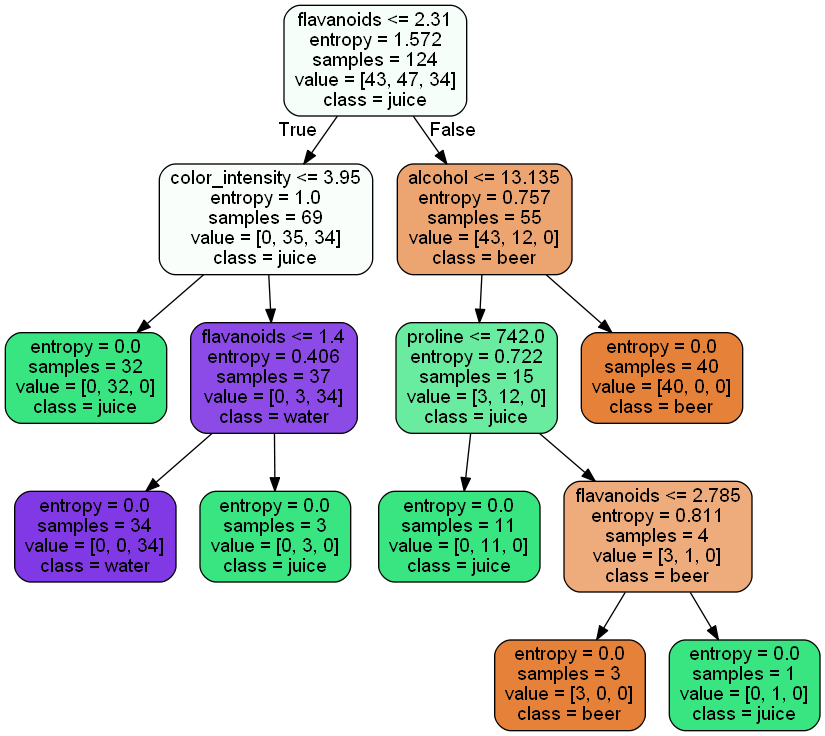
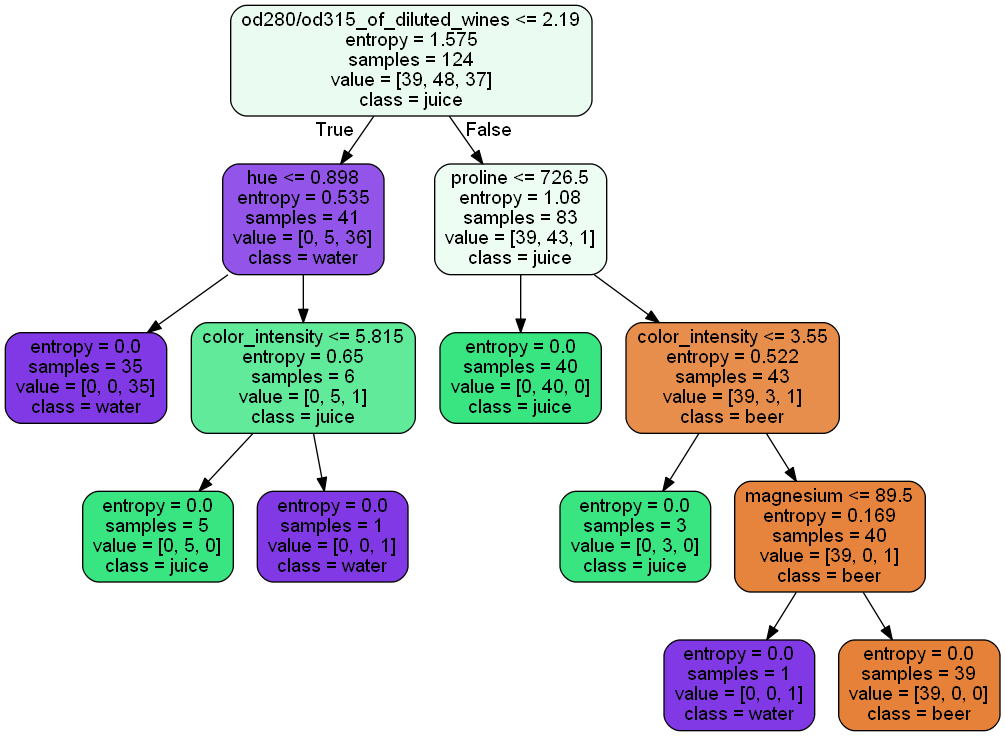
写bug第一名

diff --git a/code/titanic.py b/code/titanic.py
@@ -1,0 +1,153 @@
+# 用分类树预测泰坦尼克号的幸存者
+
+import pandas as pd
+from sklearn.tree import DecisionTreeClassifier
+import matplotlib.pyplot as plt
+from sklearn.model_selection import GridSearchCV, cross_val_score
+from sklearn.model_selection import train_test_split
+import numpy as np
+
+
+# 导入数据集 r是为了防止路径出错
+data = pd.read_csv(r"E:\work\pycharm\goForIt\sklearn\titanic\train.csv")
+
+# print(data.info())
+# 看一眼info RangeIndex: 891 entries, 0 to 890
+# Data columns (total 12 columns):
+# PassengerId    891 non-null int64
+# Survived       891 non-null int64
+# Pclass         891 non-null int64
+# Name           891 non-null object
+# Sex            891 non-null object
+# Age            714 non-null float64
+# SibSp          891 non-null int64
+# Parch          891 non-null int64
+# Ticket         891 non-null object
+# Fare           891 non-null float64
+# Cabin          204 non-null object
+# Embarked       889 non-null object
+
+
+
+# 不难发现特征里面有object 5 个 而分类树模型只能给数字 不能给对象 so如果需要保留的话必须手动转成数字
+# 年龄 Age 714  Cabin 204 Embarked 889 都是不足891的 有缺失值需要处理
+
+
+# 筛选特征
+# data.drop(['Cabin', 'Name''Ticket'], inplace=True,axis=1)
+# inplace=True 参数是让drop后处理的数据覆盖掉原有的数据 如果能确定这样处理不修改的话 可以加这个参数
+# 不加这参数的话 需要再找个变量接收处理后的返回值
+# axis=1 删除列(因为是以最外面大括号的维度)
+data = data.drop(['Cabin', 'Name','Ticket'], axis=1)
+
+# Age数据是714,有缺失值 但感觉这个特征点有用 所以要处理一下
+# 由于是年龄 所以这里用平均数填充 视情况也有可能会用0,中位数 or 别的统计学知识去填补
+data["Age"] = data["Age"].fillna(data["Age"].mean())
+
+
+# print(data.info())    #打出来看一眼
+# Data columns (total 9 columns):
+# PassengerId    891 non-null int64
+# Survived       891 non-null int64
+# Pclass         891 non-null int64
+# Sex            891 non-null object
+# Age            891 non-null float64
+# SibSp          891 non-null int64
+# Parch          891 non-null int64
+# Fare           891 non-null float64
+# Embarked       889 non-null object
+
+
+# Embarked  889 还是有缺失 但是只缺2行 ,所以大部分还是可用的,因此只删除缺这个特征的两行即可
+# 删掉所有有NaN的行(默认axis=0)  传入=1的话可以删除列
+data = data.dropna()
+
+
+# print(data.info())
+# 整体数据变成889行了
+
+labels = data["Embarked"].unique().tolist()
+data["Embarked"] = data["Embarked"].apply(lambda x: labels.index(x))
+labels.index("S")
+
+
+# loc['a':'b']#选取ab两行数据 loc[:,'one']#选取one列的数据 iloc函数基于索引位
+data.loc[:, "Sex"] = (data["Sex"] == "male").astype("int")
+# print(data.iloc[:, 3])
+
+x = data.iloc[:,data.columns != "Survived"]
+# data.columns != "Survived"  会生成一个布尔值的列表 所以是返回为true的列全都取出来
+
+# y则相反 所有等于y的都取出
+y = data.iloc[:,data.columns == "Survived"]
+
+# 划分训练集
+
+Xtrain, Xtest, Ytrain, Ytest = train_test_split(x, y, test_size=0.3)
+
+# print(Xtrain.head(10))
+# 打出来看一眼 由于是随机的索引乱掉了 所以手动整理一下 Xtrain.index = range(Xtrain.shape[0])
+for i in [Xtrain, Xtest, Ytrain, Ytest]:
+    i.index = range(i.shape[0])
+
+
+# random_state 随机写个25
+# 分类模型
+# clf = DecisionTreeClassifier(random_state=25)
+# clf = clf.fit(Xtrain, Ytrain)
+# score = clf.score(Xtest,Ytest)
+
+# print(score)
+# 0.7490636704119851  一次的训练结果不理想
+
+# 追加进行交叉验证的训练
+# clf = DecisionTreeClassifier(random_state=25)
+# score = cross_val_score(clf, x, y, cv=10).mean()
+
+# print(score)
+# 0.7469611848825333  10次均值也不理想 不升反降
+tr = []
+te = []
+
+for i in range(10):
+    clf = DecisionTreeClassifier(random_state=25
+                                 ,max_depth=i+1
+                                 # 第一次调参追加 "entropy" 发现测试集表现更好了
+                                 ,criterion="entropy")
+    clf = clf.fit(Xtrain, Ytrain)
+    score_tr = clf.score(Xtrain,Ytrain)
+    score_te = cross_val_score(clf, x, y, cv=10).mean()
+    tr.append(score_tr)
+    te.append(score_te)
+
+
+# plt.plot(range(1,11),tr,color="red",label="train")
+# plt.plot(range(1,11),te,color="blue",label="test")
+# plt.xticks(range(1,11))
+# plt.legend()
+# plt.show()
+
+
+# 网格搜索:我们给出多个参数 网格搜搜进行枚举给出效果最好的组合
+# 使用时要控制取值范围
+
+clf = DecisionTreeClassifier(random_state=25)
+
+# np.linspace(0,0.5,50) # 0 - 0.5 递增50个随机有序的数
+gini_threholds = np.linspace(0,0.5,50)
+# entropy_threholds = np.linspace(0,1,50)
+
+# 参数是字典型 深度这样的有范围的数据组的话值是列表
+parameters = {
+    "criterion": ("gini", "entropy")
+    , "splitter": ("best", "random")
+    , "max_depth": [*range(1, 10)]
+    , "min_samples_leaf": [*range(1, 50, 5)]
+    # 信息增益最小值
+    , "min_impurity_decrease": gini_threholds
+}
+# 网格搜索 1.要验证测模型 2.参数(字典) 3.次数
+GS = GridSearchCV(clf, parameters, cv=10)
+GS.fit(Xtrain, Ytrain)
+print(GS.best_params_)
+# {'criterion': 'entropy', 'max_depth': 6, 'min_impurity_decrease': 0.01020408163265306, 'min_samples_leaf': 1, 'splitter': 'best'}

diff --git a/code/Decision_tree_example.py b/code/Decision_tree_example.py
@@ -1,0 +1,70 @@
+#  一维回归树案例
+import numpy as np
+from sklearn.tree import DecisionTreeRegressor
+import matplotlib.pyplot as plt
+
+# 创建一组有噪声的曲线 x随机取值0-5 用正弦函数sin去生成y值
+# 但是人为加入一些y的噪声
+
+# 生成随机数种子
+rng = np.random.RandomState(1)
+# np.random.rand 生成随机数据的函数
+# 这里因为已经直接声明rng了 所以可以直接写rand 生成0-1之间的随机数
+# rng.rand(5) 输入5的话会返回5个随机数
+# print(rng.rand(10,7))  输入数字结构的话 会返回10,7 形状的随机数数组
+
+# 这里的rand(80, 1) 生成了数组是因为 tree接口是不允许导入一维特征的
+# 不在生成数据的时候整形的话 之后还要再调用reshape升维 so还不如现在一步到位
+# 乘5 是因为设计时候希望是0-5来着 扩大一下 再sort正序一下
+x = np.sort(5 * rng.rand(80, 1), axis=0)
+
+# 由于导入的X是二维的 所以Y也会是二维
+# 但y如果是二维的话会报错 于是只能用ravel 手动降维
+y = np.sin(x).ravel()
+# 手动加点噪声
+y[::5] += 3 * (0.5 - rng.rand(16))
+
+# 画图瞄一眼
+plt.figure()
+# 这个是画散点图的工具
+plt.scatter(x, y, s=20, edgecolors="black", c="darkorange", label="data")
+plt.show()
+
+# 实例化 and训练 建两个深度对比效果
+regr_1 = DecisionTreeRegressor(max_depth=2)
+regr_2 = DecisionTreeRegressor(max_depth=5)
+regr_1.fit(x,y)
+regr_2.fit(x,y)
+
+# 生成测试集验证
+# arange(开始点,结束点,步长) 生成有序数列 后面加切片是为了增维
+x_test = np.arange(0.0, 5.0, 0.01)[:, np.newaxis]
+
+# 分别导入验证
+y_1 = regr_1.predict(x_test)
+y_2 = regr_2.predict(x_test)
+
+
+# 画图瞄一眼
+plt.figure()
+# 这个是画散点图的工具
+plt.scatter(x, y, s=50, edgecolors="black", c="darkorange", label="data")
+plt.plot(x_test, y_1, color="blue", label="max_depth=2", linewidth=2)
+plt.plot(x_test, y_2, color="yellowgreen", label="max_depth=5", linewidth=2)
+plt.xlabel("data")
+plt.ylabel("target")
+plt.title("Decison tree")
+# 显示图例
+plt.legend()
+plt.show()
+
+# 结果小结 深度2还比较准确 深度5过拟合了
+#
+#
+# 补充另一个豆知识
+# np的矩阵的维度  最外面的括号代表着 axis=0，依次往里的括号对应的 axis 的计数就依次加 1
+# test = np.array([[1, 2], [3, 4]])
+# a = np.sum(test, axis=0)
+# b = np.sum(test, axis=1)
+# print(a)
+# print(b)

diff --git a/code/decision_tree.py b/code/decision_tree.py
@@ -10,17 +10,18 @@ import graphviz
 wine = load_wine()
 a = pd.concat([pd.DataFrame(wine.data), pd.DataFrame(wine.target)], axis=1)
 # 表的最后一列是target
-# print(a)
+print(a)
+
 
 # wine 里还有几个属性是接下来要用的
 # 特证名 feature_names
 # 分类名 target_names
-
+#
 # 分训练集和测试集
 Xtrain, Xtest, Ytrain, Ytest = train_test_split(wine.data, wine.target, test_size=0.3)
 # test_size参数是指0.3作为测试集 0.7作为训练集
-# print(wine.data.shape)   # 原始数据是(178, 13) 178行13个标签
-# print(Xtrain.shape)  # 训练集是(124, 13) 124行13个标签
+print(wine.data.shape)   # 原始数据是(178, 13) 178行13个标签
+print(Xtrain.shape)  # 训练集是(124, 13) 124行13个标签
 
 
 # 开始愉快地建模吧!
@@ -29,11 +30,13 @@ Xtrain, Xtest, Ytrain, Ytest = train_test_split(wine.data, wine.target, test_siz
 # random_state 参数设置分支随机性
 # splitter 参数设置随即选项 "best"优先选择更重要的特征分类  "random"分支更随机,树更深,训练集拟合度降低
 clf = tree.DecisionTreeClassifier(criterion="entropy")
+# fit是训练接口
 clf = clf.fit(Xtrain, Ytrain)
 score = clf.score(Xtest, Ytest)  # 注意参数顺序
 print(score)  # 预测精确度  我这次跑是0.9629629629629
 
-
+# 下面参数的name可以换成中文 然而显示不好pass了
+feature_name = ['酒精', '苹果酸', '灰', '灰的碱性', '镁', '总酚', '类黄酮', '非黄烷类酚类', '花青素', '颜色强度', '色调', 'od280/od315稀释葡萄酒', '脯氨酸']
 # 更直观的数据 决策树可视化
 # 里面放入刚建好的模型
 dot_data = tree.export_graphviz(clf, feature_names=wine.feature_names,
@@ -44,12 +47,12 @@ dot_data = tree.export_graphviz(clf, feature_names=wine.feature_names,
 
 # 跑不了这个库的话 需要安装Graphviz
 graph = pydotplus.graph_from_dot_data(dot_data)
-# 利用pydotplus 把决策树导出为图片(pdf也可)
+# 利用pydotplus 把决策树导出为图片(pdf也可)s
 with open('../LogisticTest/tree_graph.png', 'wb') as f:
     f.write(graph.create_png())
 
 # 特征重要性 feature_importances_
-# print(clf.feature_importances_)
+print(clf.feature_importances_)
 # 可见特征里只有4项是有数字的 说明对于构造这个决策树是只有这四项是有重要意义的
 """
 [0.10151147 0.         0.         0.         0.         0.

diff --git a/code/tf/prediction.py b/code/tf/prediction.py
@@ -1,0 +1,1 @@
+# 高斯噪声是指它的概率密度函数服从高斯分布（即正态分布）的一类噪声 式子里计做eps

diff --git a/wuenda/start.py b/wuenda/start.py
@@ -1,4 +1,4 @@
-"""新坑 吴恩达机器学习系列笔记"""
+"""新坑 机器学习系列笔记"""
 
 # 监督学习
 
